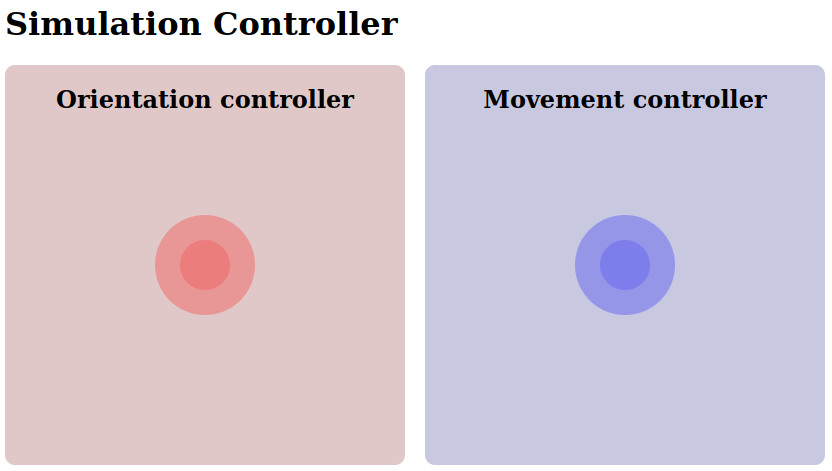
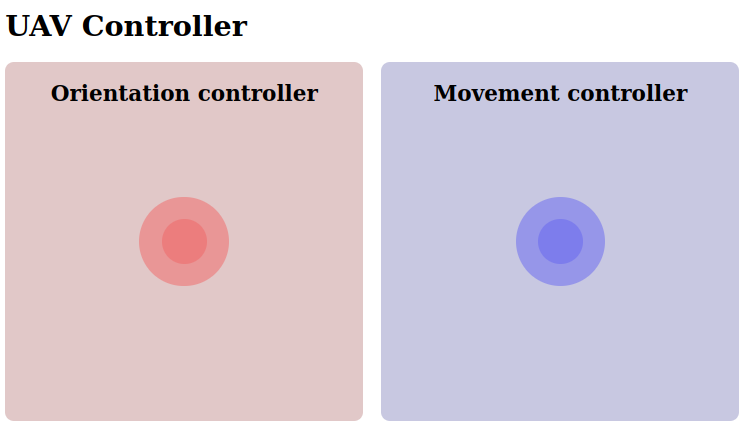
Update README

diff --git a/app/index.html b/app/index.html
@@ -10,7 +10,7 @@
 </head>
 
 <body>
-    <h1 class="title">Simulation Controller</h1>
+    <h1 class="title">UAV Controller</h1>
 
     <div class="container">
 

diff --git a/README.md b/README.md
@@ -30,7 +30,8 @@ git clone https://bitbucket.org/fadacatec-ondemand/ros_joy_js.git
 
 ## Usage
 We will run the controller using **roslaunch**:
-- **PC**
+
+### PC
 
 **1.** Go to your project folder 
 
@@ -49,7 +50,7 @@ roslaunch ros_joy_js run.launch
 **Now you can use the controller from your PC!!!**
 
 
-- **Phone**
+### Phone
 
 You can also control the UAV with your phone:
 
